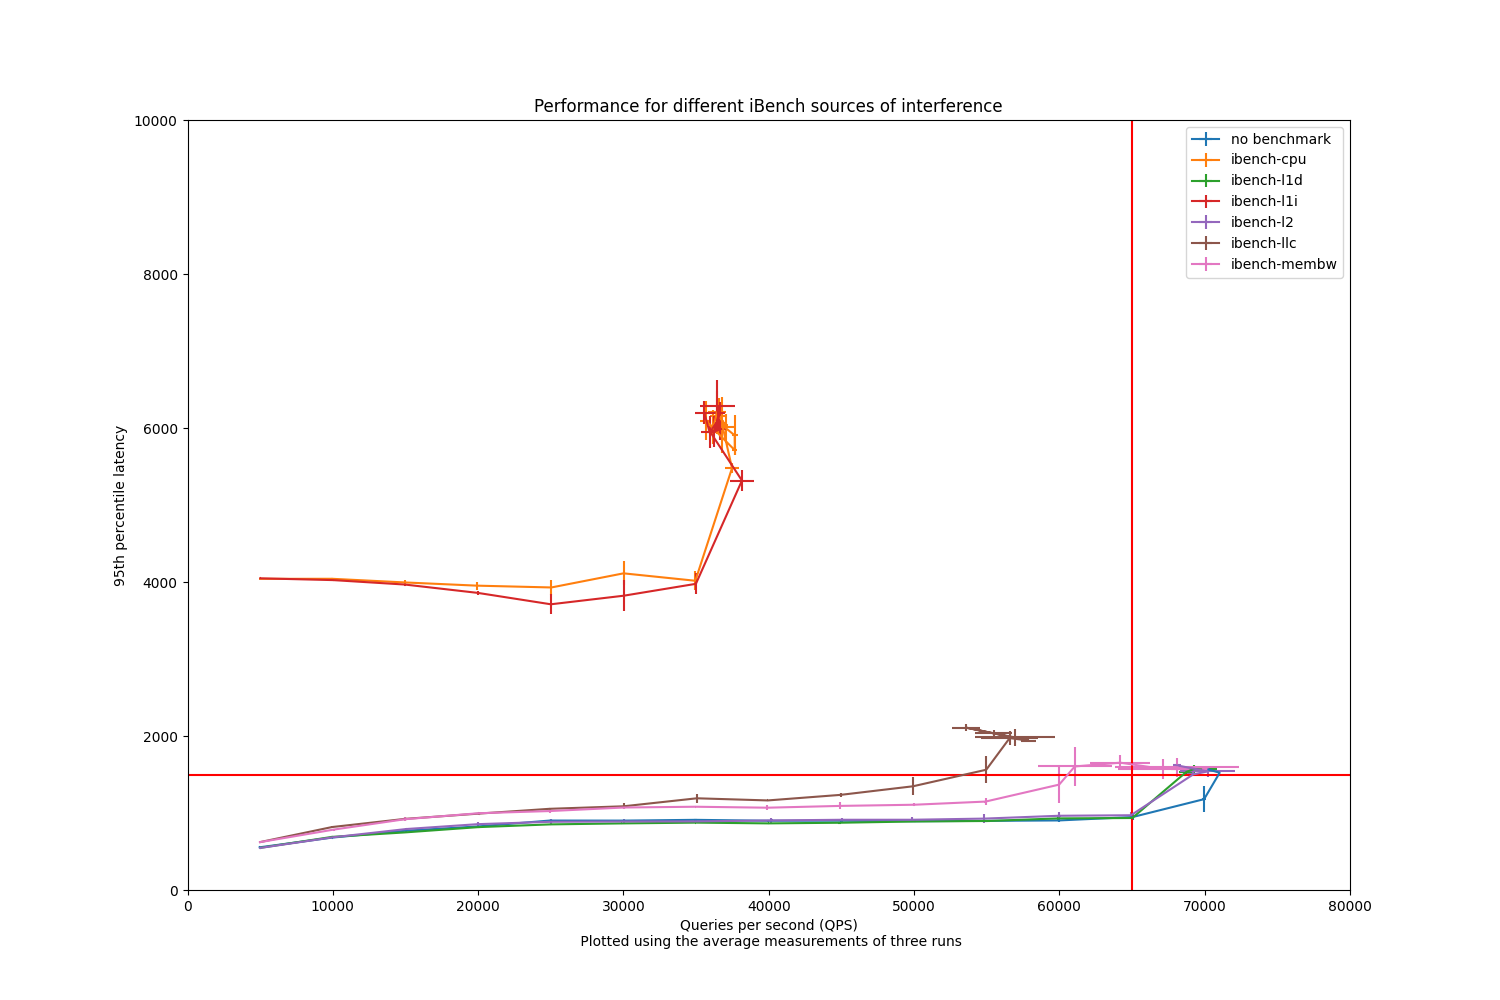
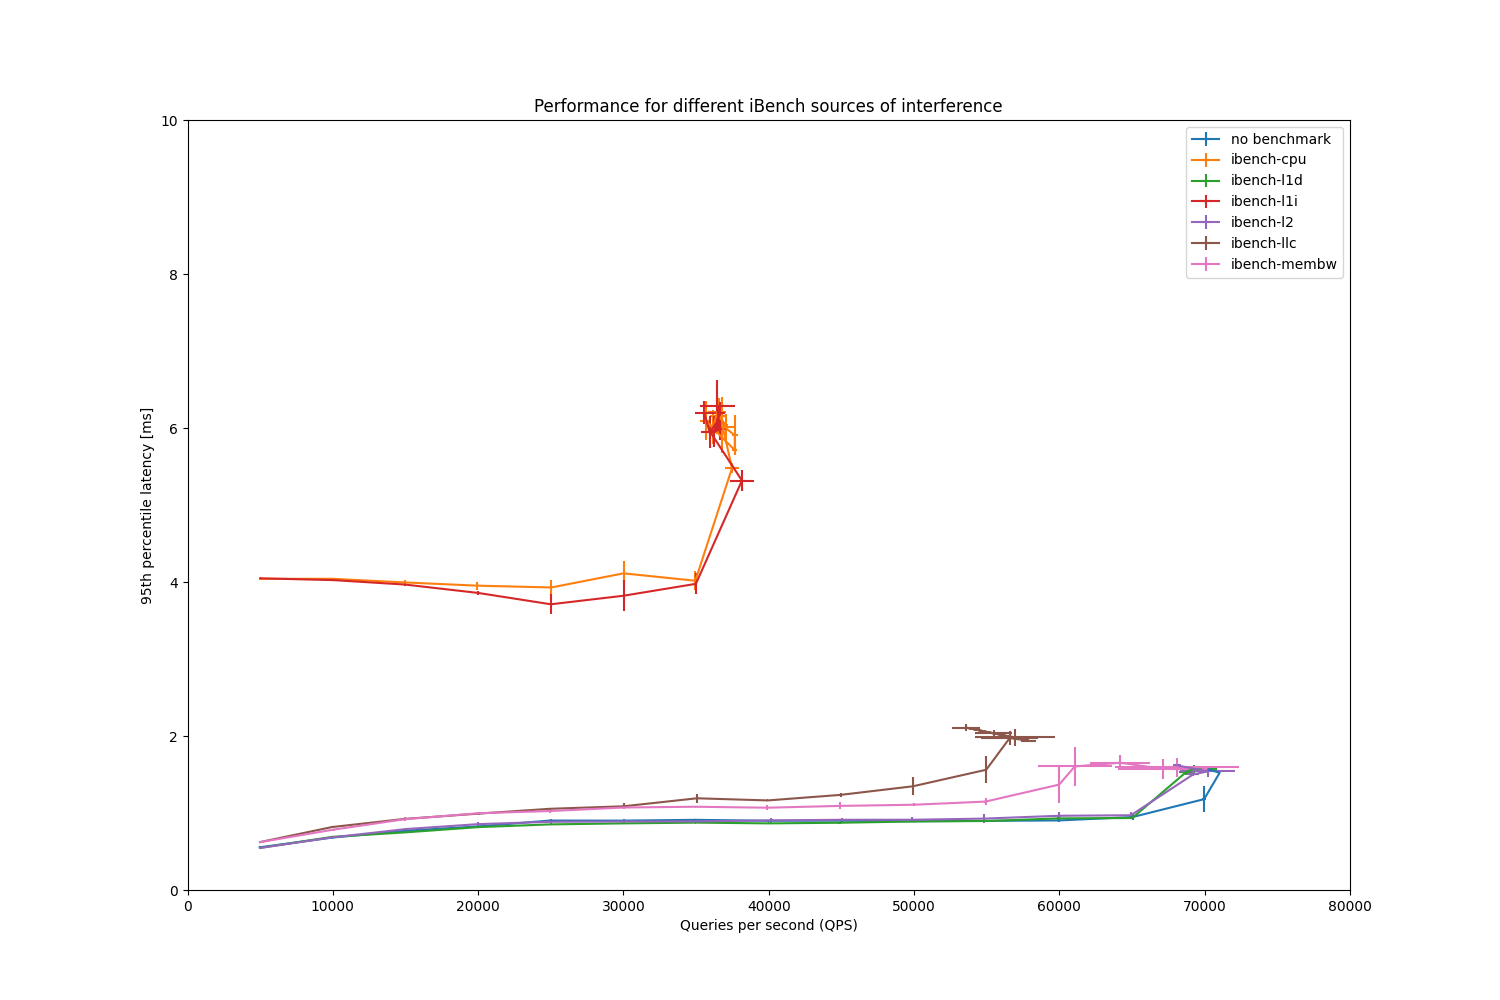
added plot for part 2

diff --git a/graphs/main.py b/graphs/main.py
@@ -10,9 +10,7 @@ errorbars using the parameters ``uplims``, ``lolims`` of `~.pyplot.errorbar`.
 Alternatively, you can use 2xN values to draw errorbars in only one direction.
 """
 
-from cProfile import label
 import math
-from email.contentmanager import raw_data_manager
 import numpy as np
 import matplotlib.pyplot as plt
 import re
@@ -63,9 +61,9 @@ def create_avg_data_arrays(file):
     y_error = []
     for i in range(len(run1[0])):
         x_data.append((run1[0][i] + run2[0][i] + run3[0][i]) / 3)
-        y_data.append((run1[1][i] + run2[1][i] + run3[1][i]) / 3)
+        y_data.append((run1[1][i] + run2[1][i] + run3[1][i]) / 3000)
         x_error.append(math.sqrt(((run1[0][i]-x_data[-1])**2 + (run2[0][i]-x_data[-1])**2 + (run2[0][i]-x_data[-1])**2))/2)
-        y_error.append(math.sqrt(((run1[1][i]-y_data[-1])**2 + (run2[1][i]-y_data[-1])**2 + (run2[1][i]-y_data[-1])**2))/2)
+        y_error.append(math.sqrt(((run1[1][i]/1000-y_data[-1])**2 + (run2[1][i]/1000-y_data[-1])**2 + (run2[1][i]/1000-y_data[-1])**2))/2)
     return (x_data, y_data, x_error, y_error)
 
 # get data from raw data for each benchmark
@@ -103,10 +101,10 @@ plt.errorbar(x1[6], y1[6], xerr=x1_err[6], yerr=y1_err[6], label="ibench-membw")
 #plt.axhline(y = 1500, color = 'r', linestyle = '-')
 #plt.axvline(x = 65000, color = 'r', linestyle = '-')
 
-plt.xlabel("Queries per second (QPS)\n Plotted using the average measurements of three runs")
-plt.ylabel("95th percentile latency")
+plt.xlabel("Queries per second (QPS)")
+plt.ylabel("95th percentile latency [ms]")
 plt.xlim(0, 80000)
-plt.ylim(0, 10000)
+plt.ylim(0, 10)
 plt.title("Performance for different iBench sources of interference")
 plt.legend(loc="upper right")
 

diff --git a/graphs/part2.py b/graphs/part2.py
@@ -1,0 +1,67 @@
+
+"""
+========================
+Errorbar limit selection
+========================
+
+Illustration of selectively drawing lower and/or upper limit symbols on
+errorbars using the parameters ``uplims``, ``lolims`` of `~.pyplot.errorbar`.
+
+Alternatively, you can use 2xN values to draw errorbars in only one direction.
+"""
+
+import math
+import numpy as np
+import matplotlib.pyplot as plt
+import re
+
+from matplotlib import pylab
+
+
+def comma(inputs):
+    with_commas = re.sub("\s+", ",", inputs.strip()).split(',')
+    return list(map(float,with_commas))
+
+
+
+x = [1,3,6,12]
+y = [
+    [224.153, 90.810, 65.906, 55.897],
+    [287.336, 149.368, 128.412, 123.193],
+    [50.664, 19.900, 21.517, 34.721],
+    [690.735, 239.192, 185.162, 170.390],
+    [142.686],
+    [456.131, 155.372, 105.863, 98.807]
+]
+
+for i in range(len(y)):
+    t1 = y[i][0]
+    for j in range(len(y[i])):
+        y[i][j] = t1 / y[i][j]
+
+
+# Plot error bar
+plt.figure(figsize=(15, 10))
+
+plt.plot(x, y[0], label="blackscholes")
+plt.plot(x, y[1], label="canneal")
+plt.plot(x, y[2], label="dedup")
+plt.plot(x, y[3], label="ferret")
+#plt.plot(x[0], y[4], label="fft")
+plt.plot(x, y[5], label="freqmine")
+
+# exercise 1d)
+#plt.axhline(y = 1500, color = 'r', linestyle = '-')
+#plt.axvline(x = 65000, color = 'r', linestyle = '-')
+
+plt.xlabel("Number of threads")
+plt.ylabel("Speedup")
+plt.xlim(0, 12)
+plt.ylim(0, 10)
+plt.title("Speedup of multiple threads for different workloads")
+plt.legend(loc="upper right")
+
+# Display graph
+
+pylab.savefig('plot_part2.png')
+plt.show()
